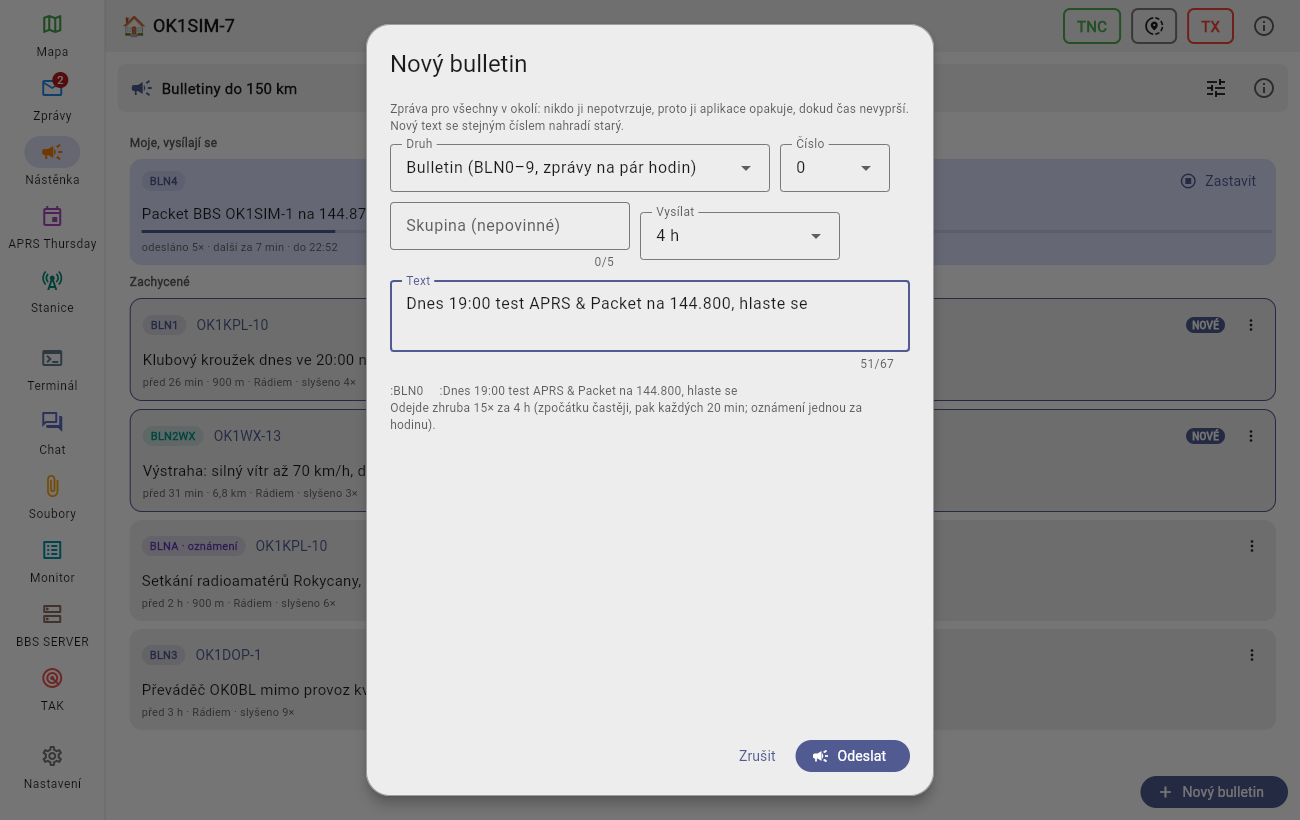
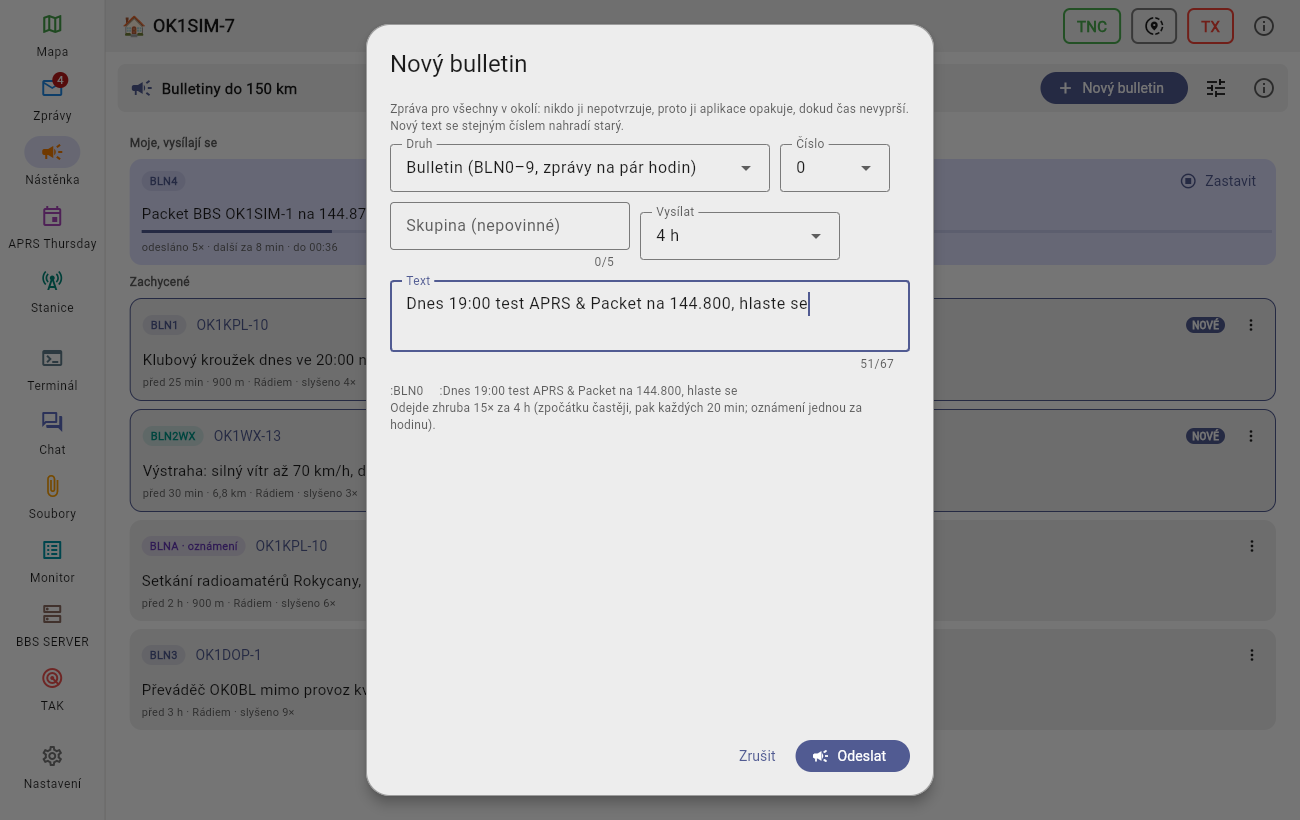
Bulletins: the New bulletin button at the top by the title (off the phone's gesture bar); screenshots
Claude-Session: https://claude.ai/code/session_01BqYfmtN7b2LQX5V1LUt362

Changed region(s): [[0.8615, 0.9451, 1.0, 1.0], [0.8, 0.061, 0.9231, 0.1524]]

diff --git a/src/aprs_kiss_app/views/bulletins.py b/src/aprs_kiss_app/views/bulletins.py
@@ -36,24 +36,28 @@ class BulletinsView(View):
     def build(self) -> ft.Control:
         self._signature = None
         self._fresh: set[tuple[str, str]] = set()  # unread when the screen was opened: marked as new
-        self.title = ft.Text(size=15, weight=ft.FontWeight.BOLD, expand=True)
+        self.title = ft.Text(size=15, weight=ft.FontWeight.BOLD, expand=True, no_wrap=True,
+                             overflow=ft.TextOverflow.ELLIPSIS)
         self.reach = ft.PopupMenuButton(icon=ft.Icons.TUNE, tooltip=self.t("bln_reach"), items=[
             ft.PopupMenuItem(content=ft.Text(self._reach_text(km)), on_click=lambda _e, km=km: self._set_reach(km))
             for km in KM_CHOICES])
+        # a new bulletin: at the top, by the title (at the bottom it sat on a phone's gesture bar)
+        self.new_btn = (ft.IconButton(ft.Icons.ADD, tooltip=self.t("bln_new"), on_click=self._compose,
+                                      style=ft.ButtonStyle(bgcolor=ft.Colors.PRIMARY, color=ft.Colors.ON_PRIMARY))
+                        if self.app.compact else
+                        ft.FilledButton(self.t("bln_new"), icon=ft.Icons.ADD, on_click=self._compose))
         header = ft.Container(
-            ft.Row([ft.Icon(ft.Icons.CAMPAIGN, color=ft.Colors.PRIMARY), self.title, self.reach,
+            ft.Row([ft.Icon(ft.Icons.CAMPAIGN, color=ft.Colors.PRIMARY), self.title, self.new_btn, self.reach,
                     ft.IconButton(ft.Icons.INFO_OUTLINE, tooltip=self.t("about"), on_click=self._info)],
                    spacing=8, vertical_alignment=ft.CrossAxisAlignment.CENTER),
             padding=ft.Padding.only(left=12, right=4, top=4, bottom=4), border_radius=8,
             bgcolor=ft.Colors.SURFACE_CONTAINER,
         )
         self.feed = ft.ListView(expand=True, spacing=8, padding=ft.Padding.all(12))
-        self.new_btn = ft.FilledButton(self.t("bln_new"), icon=ft.Icons.ADD, on_click=self._compose)
         return ft.Column([
             header,
             ft.Container(ft.SelectionArea(self.feed), expand=True, border_radius=8,
                          bgcolor=ft.Colors.SURFACE_CONTAINER_LOWEST),
-            ft.Row([self.new_btn], alignment=ft.MainAxisAlignment.END),
         ], expand=True)
 
     def _reach_text(self, km: int) -> str:

diff --git a/tools/screenshots.py b/tools/screenshots.py
@@ -292,7 +292,7 @@ async def desktop(lang, theme, only):
             if want("bulletins"):
                 await b.shot(out("bulletins", lang, theme))
             if want("bulletin-new"):
-                await b.click(1180, 795, 2)  # New bulletin
+                await b.click(1080, 88, 2)  # New bulletin (in the header)
                 await b.type("Dnes 19:00 test APRS & Packet na 144.800, hlaste se" if cs
                              else "Tonight 19:00 APRS & Packet test on 144.800, check in", 1.5)
                 await b.shot(out("bulletin-new", lang, theme))

diff --git a/CHANGELOG.md b/CHANGELOG.md
@@ -10,6 +10,9 @@ Stable versions are 1.0.0, 1.1.0, 1.2.0 …; between them come **betas** (1.0.1,
   long second line ("438.525 · 70 cm · D-Star") is two or three times a callsign's width, and was counted as
   one (four DL6MDX repeaters on one mast covered their neighbours).
 
+- **Bulletins: New bulletin at the top**, by the title (a round + on a phone) – at the bottom it sat on the
+  phone's gesture bar.
+
 ## 1.9.0 – 2026-11-27
 
 - **Raspberry Pi as a station with a touch screen** – one command installs it on Raspberry Pi OS

diff --git a/src/aprs_kiss_app/CHANGELOG.md b/src/aprs_kiss_app/CHANGELOG.md
@@ -10,6 +10,9 @@ Stable versions are 1.0.0, 1.1.0, 1.2.0 …; between them come **betas** (1.0.1,
   long second line ("438.525 · 70 cm · D-Star") is two or three times a callsign's width, and was counted as
   one (four DL6MDX repeaters on one mast covered their neighbours).
 
+- **Bulletins: New bulletin at the top**, by the title (a round + on a phone) – at the bottom it sat on the
+  phone's gesture bar.
+
 ## 1.9.0 – 2026-11-27
 
 - **Raspberry Pi as a station with a touch screen** – one command installs it on Raspberry Pi OS
